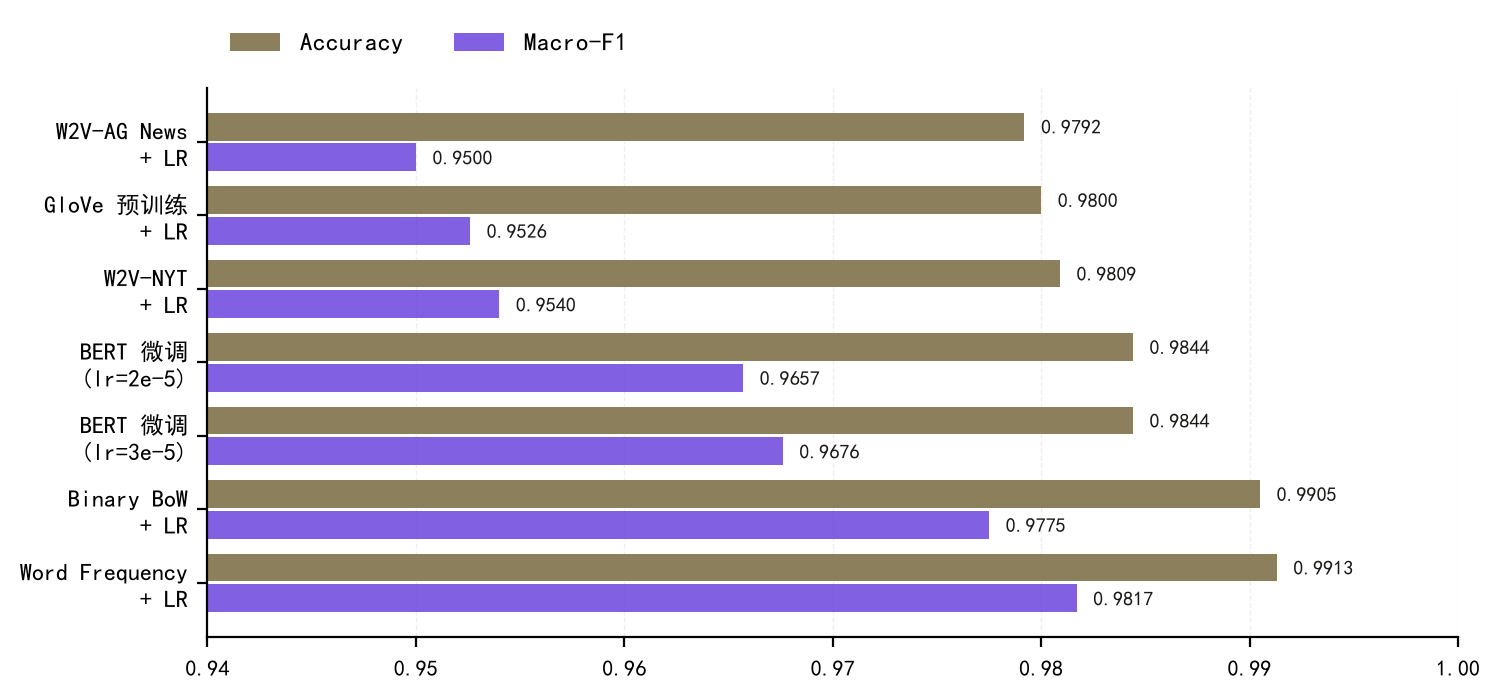
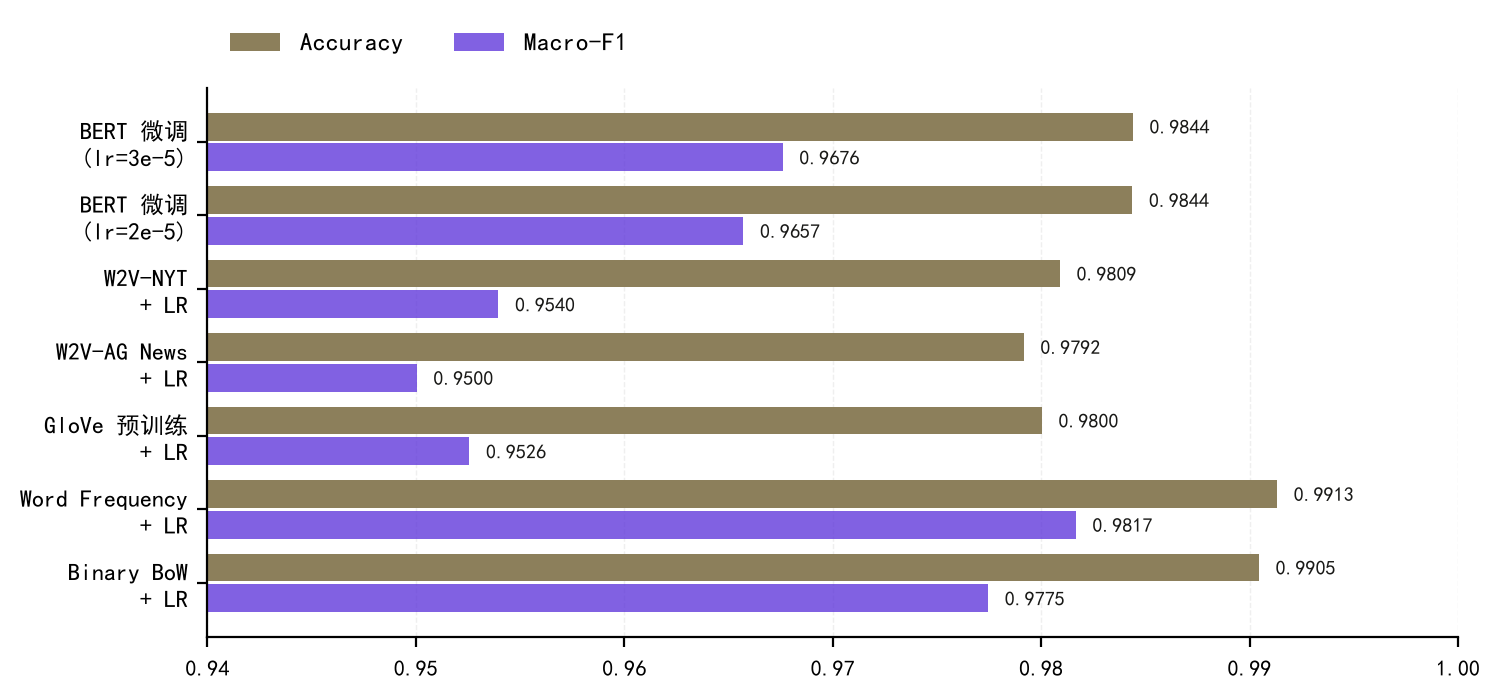
Final submission cleanup: drop obsolete report tooling, keep chart generator

diff --git a/hw1/src/make_chart.py b/hw1/src/make_chart.py
@@ -1,0 +1,65 @@
+"""Regenerate the methods-comparison chart (Figure 1) for the report.
+
+Reads metrics from results/results.csv and renders a horizontal bar chart
+to hw1/report/latex/chart_methods.png, which main.tex includes.
+Run from hw1/ after re-running experiments if the numbers change.
+"""
+import os
+
+import matplotlib
+matplotlib.use("Agg")
+import matplotlib.pyplot as plt
+import pandas as pd
+
+from common import RESULTS_DIR, ROOT
+
+plt.rcParams["font.sans-serif"] = ["SimHei"]
+plt.rcParams["axes.unicode_minus"] = False
+
+PRETTY = {
+    "task1_binary_bow": "Binary BoW\n+ LR",
+    "task1_word_frequency": "Word Frequency\n+ LR",
+    "task2a_glove_pretrained": "GloVe 预训练\n+ LR",
+    "task2b_word2vec_ag": "W2V-AG News\n+ LR",
+    "task2c_word2vec_nyt": "W2V-NYT\n+ LR",
+    "task3_bert_finetuned": "BERT 微调\n(lr=2e-5)",
+    "task3_bert_lr3e5": "BERT 微调\n(lr=3e-5)",
+}
+ORDER = list(PRETTY)  # worst at top, best at bottom
+
+df = pd.read_csv(os.path.join(RESULTS_DIR, "results.csv"))
+df = df.drop_duplicates(subset="experiment", keep="last").set_index("experiment")
+df = df.loc[[e for e in ORDER if e in df.index]]
+
+names = [PRETTY[e] for e in df.index]
+acc, f1 = df["accuracy"].tolist(), df["macro_f1"].tolist()
+
+fig, ax = plt.subplots(figsize=(7.6, 3.6), dpi=200)
+y = range(len(names))
+bh = 0.38
+b1 = ax.barh([i + bh / 2 + 0.02 for i in y], acc, height=bh,
+             color="#8c7f5b", label="Accuracy")
+b2 = ax.barh([i - bh / 2 - 0.02 for i in y], f1, height=bh,
+             color="#572cd9", alpha=0.75, label="Macro-F1")
+for bars in (b1, b2):
+    for rect in bars:
+        wv = rect.get_width()
+        ax.text(wv + 0.0008, rect.get_y() + rect.get_height() / 2,
+                f"{wv:.4f}", va="center", ha="left",
+                fontsize=7.2, color="#191917")
+ax.set_yticks(list(y))
+ax.set_yticklabels(names, fontsize=8.5)
+ax.set_xlim(0.94, 1.0)
+ax.spines["top"].set_visible(False)
+ax.spines["right"].set_visible(False)
+ax.grid(axis="x", linestyle="--", linewidth=0.5, alpha=0.2)
+ax.set_axisbelow(True)
+ax.legend(loc="lower left", bbox_to_anchor=(0.0, 1.02), ncol=2,
+          frameon=False, fontsize=9)
+ax.tick_params(axis="x", labelsize=8)
+plt.tight_layout()
+
+out = os.path.join(ROOT, "report", "latex", "chart_methods.png")
+plt.savefig(out, bbox_inches="tight")
+plt.close(fig)
+print(f"chart saved -> {out}")

diff --git a/hw1/README.md b/hw1/README.md
@@ -32,6 +32,7 @@ python src/task2_word2vec.py   # Task 2b/2c: Word2Vec(AG) / Word2Vec(NYT) + LR
 python src/task2_glove.py      # Task 2a: GloVe 6B 100d + LR
 python src/task3_bert.py --lr 3e-5   # Task 3: BERT fine-tuning（学习率可选）
 python src/aggregate_results.py      # 汇总 results/results.csv
+python src/make_chart.py             # 重新生成报告中的对比图（可选）
 ```
 
 ## 外部资源（一次性，均不提交）
